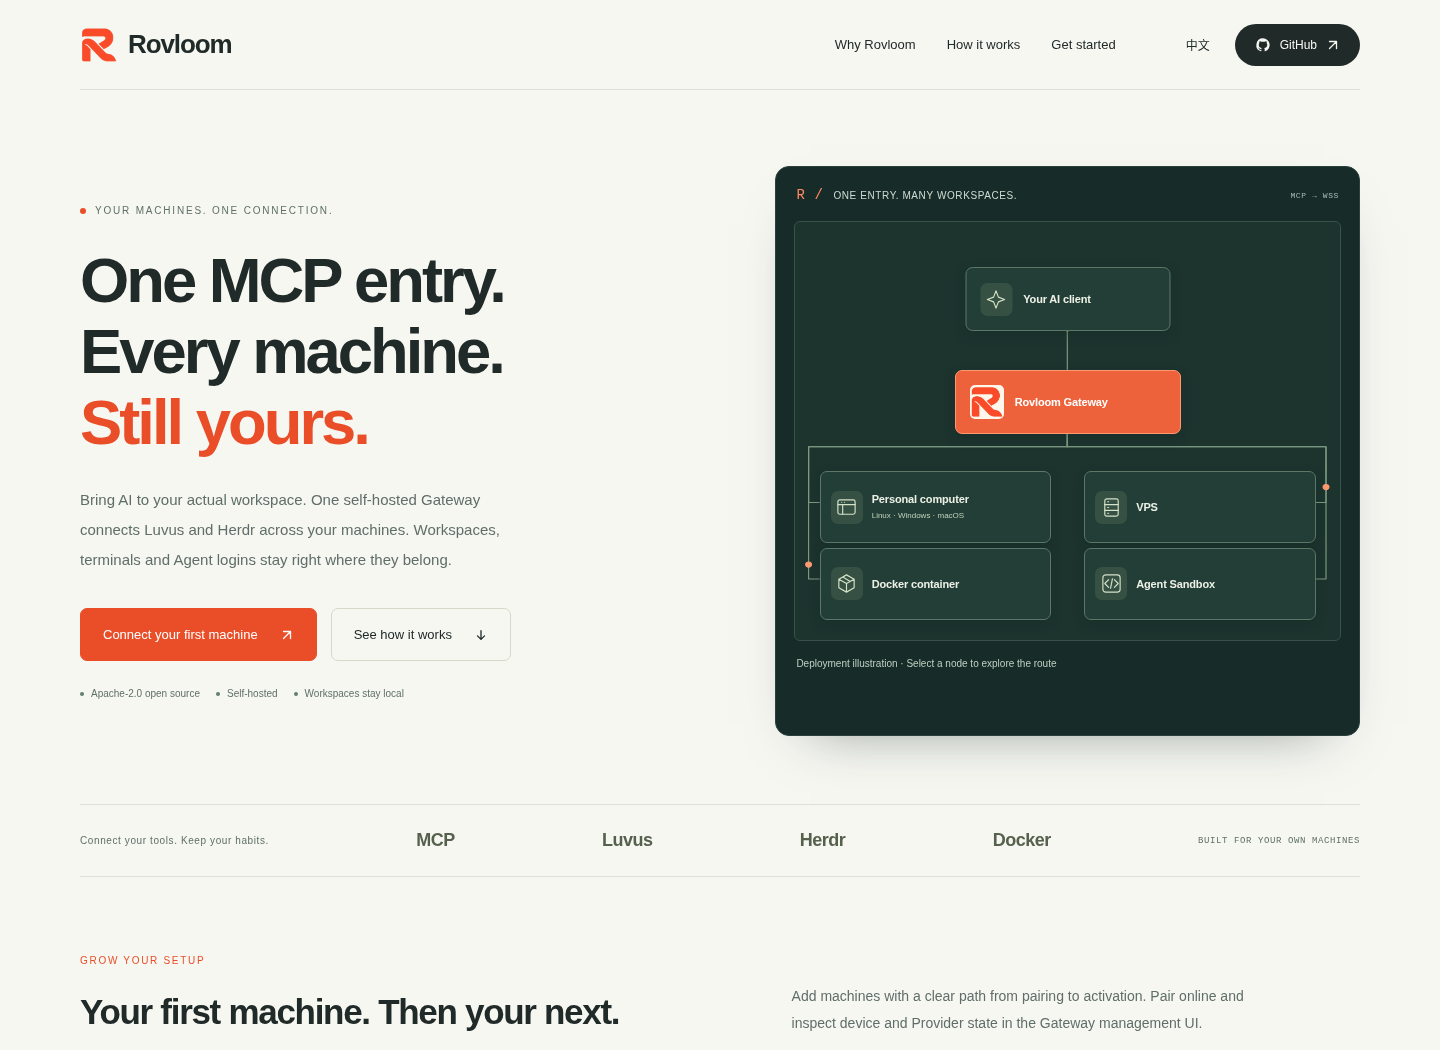
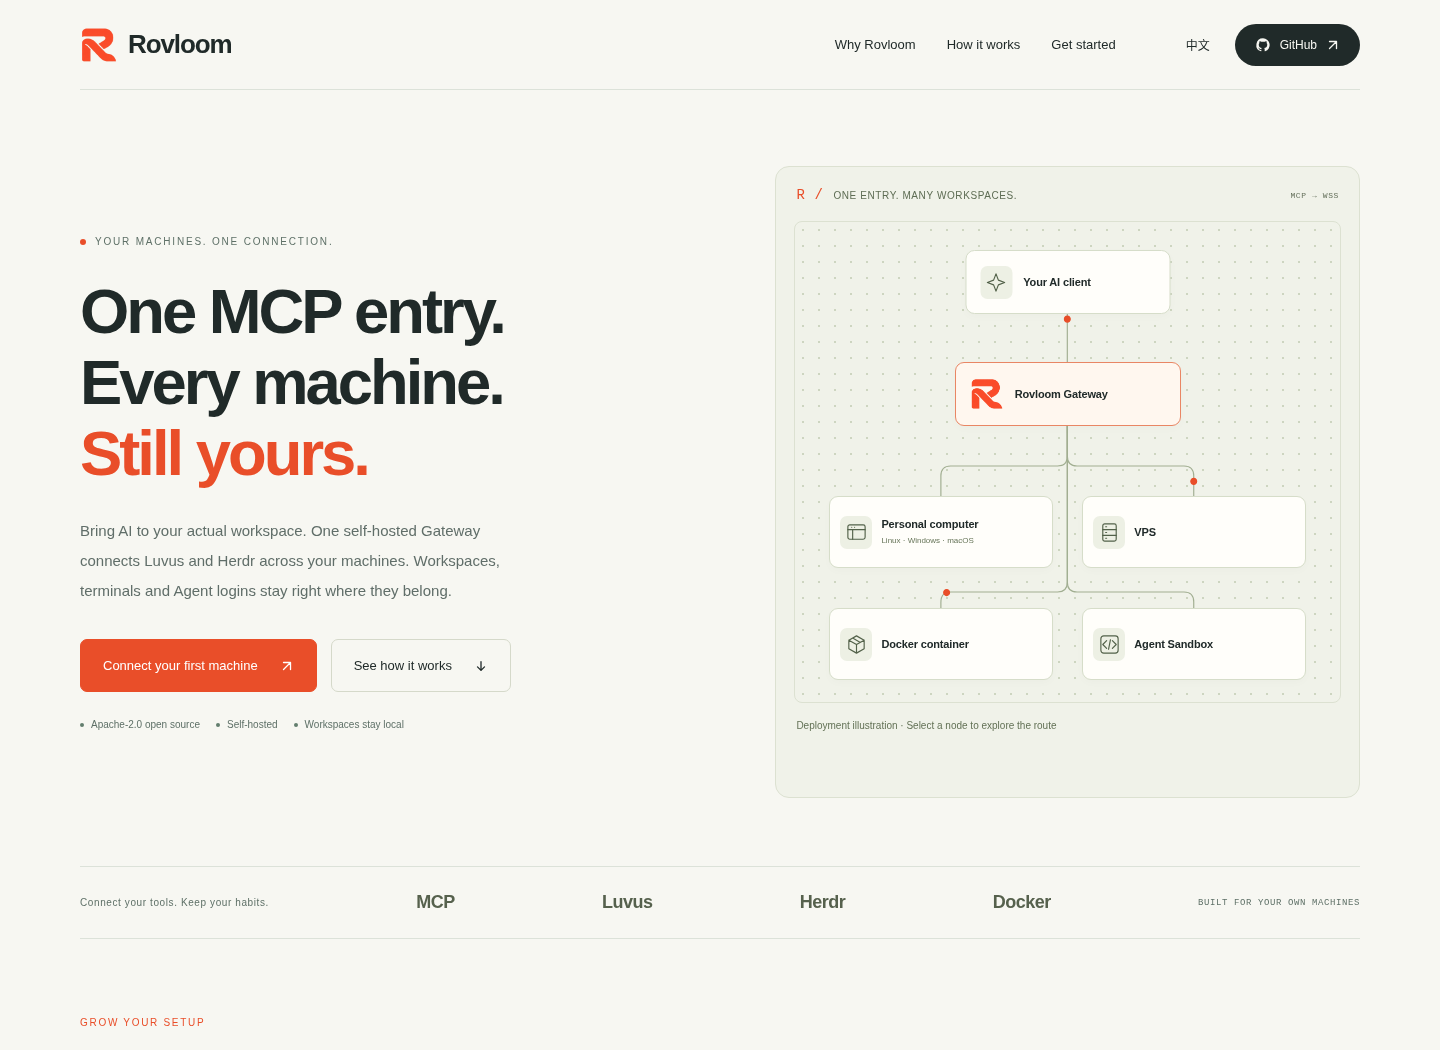
docs: second homepage preview with pale canvases and central routes

diff --git a/README.md b/README.md
@@ -1,5 +1,7 @@
-Review-only browser screenshots for PR #254, implementation commit 245eda5.
+Review-only browser screenshots for PR #254, implementation commit 7d67c2f49cf624d2752801cb1ef2cbdd98c1bda2.
 
-This orphan evidence branch is only an image host for the requested PR comment. It is not part of the implementation PR, has no workflow, and must not be merged into main or website. No site deployment is performed.
+Revision 2 restores pale green dotted backgrounds and routes the four environment cards from a central spine into their top edges.
 
-Captured locally with Chromium from http://127.0.0.1:4173/rovloom/.
+This orphan evidence branch is only an image host for the requested PR comment, explicitly approved by the user. It is not part of the implementation PR, has no workflow, and must not be merged into main or website. No site deployment is performed.
+
+Captured locally with Chromium from http://127.0.0.1:4173/rovloom/. Both languages and all six tested widths passed route-endpoint alignment and no-unrelated-card-crossing checks.
